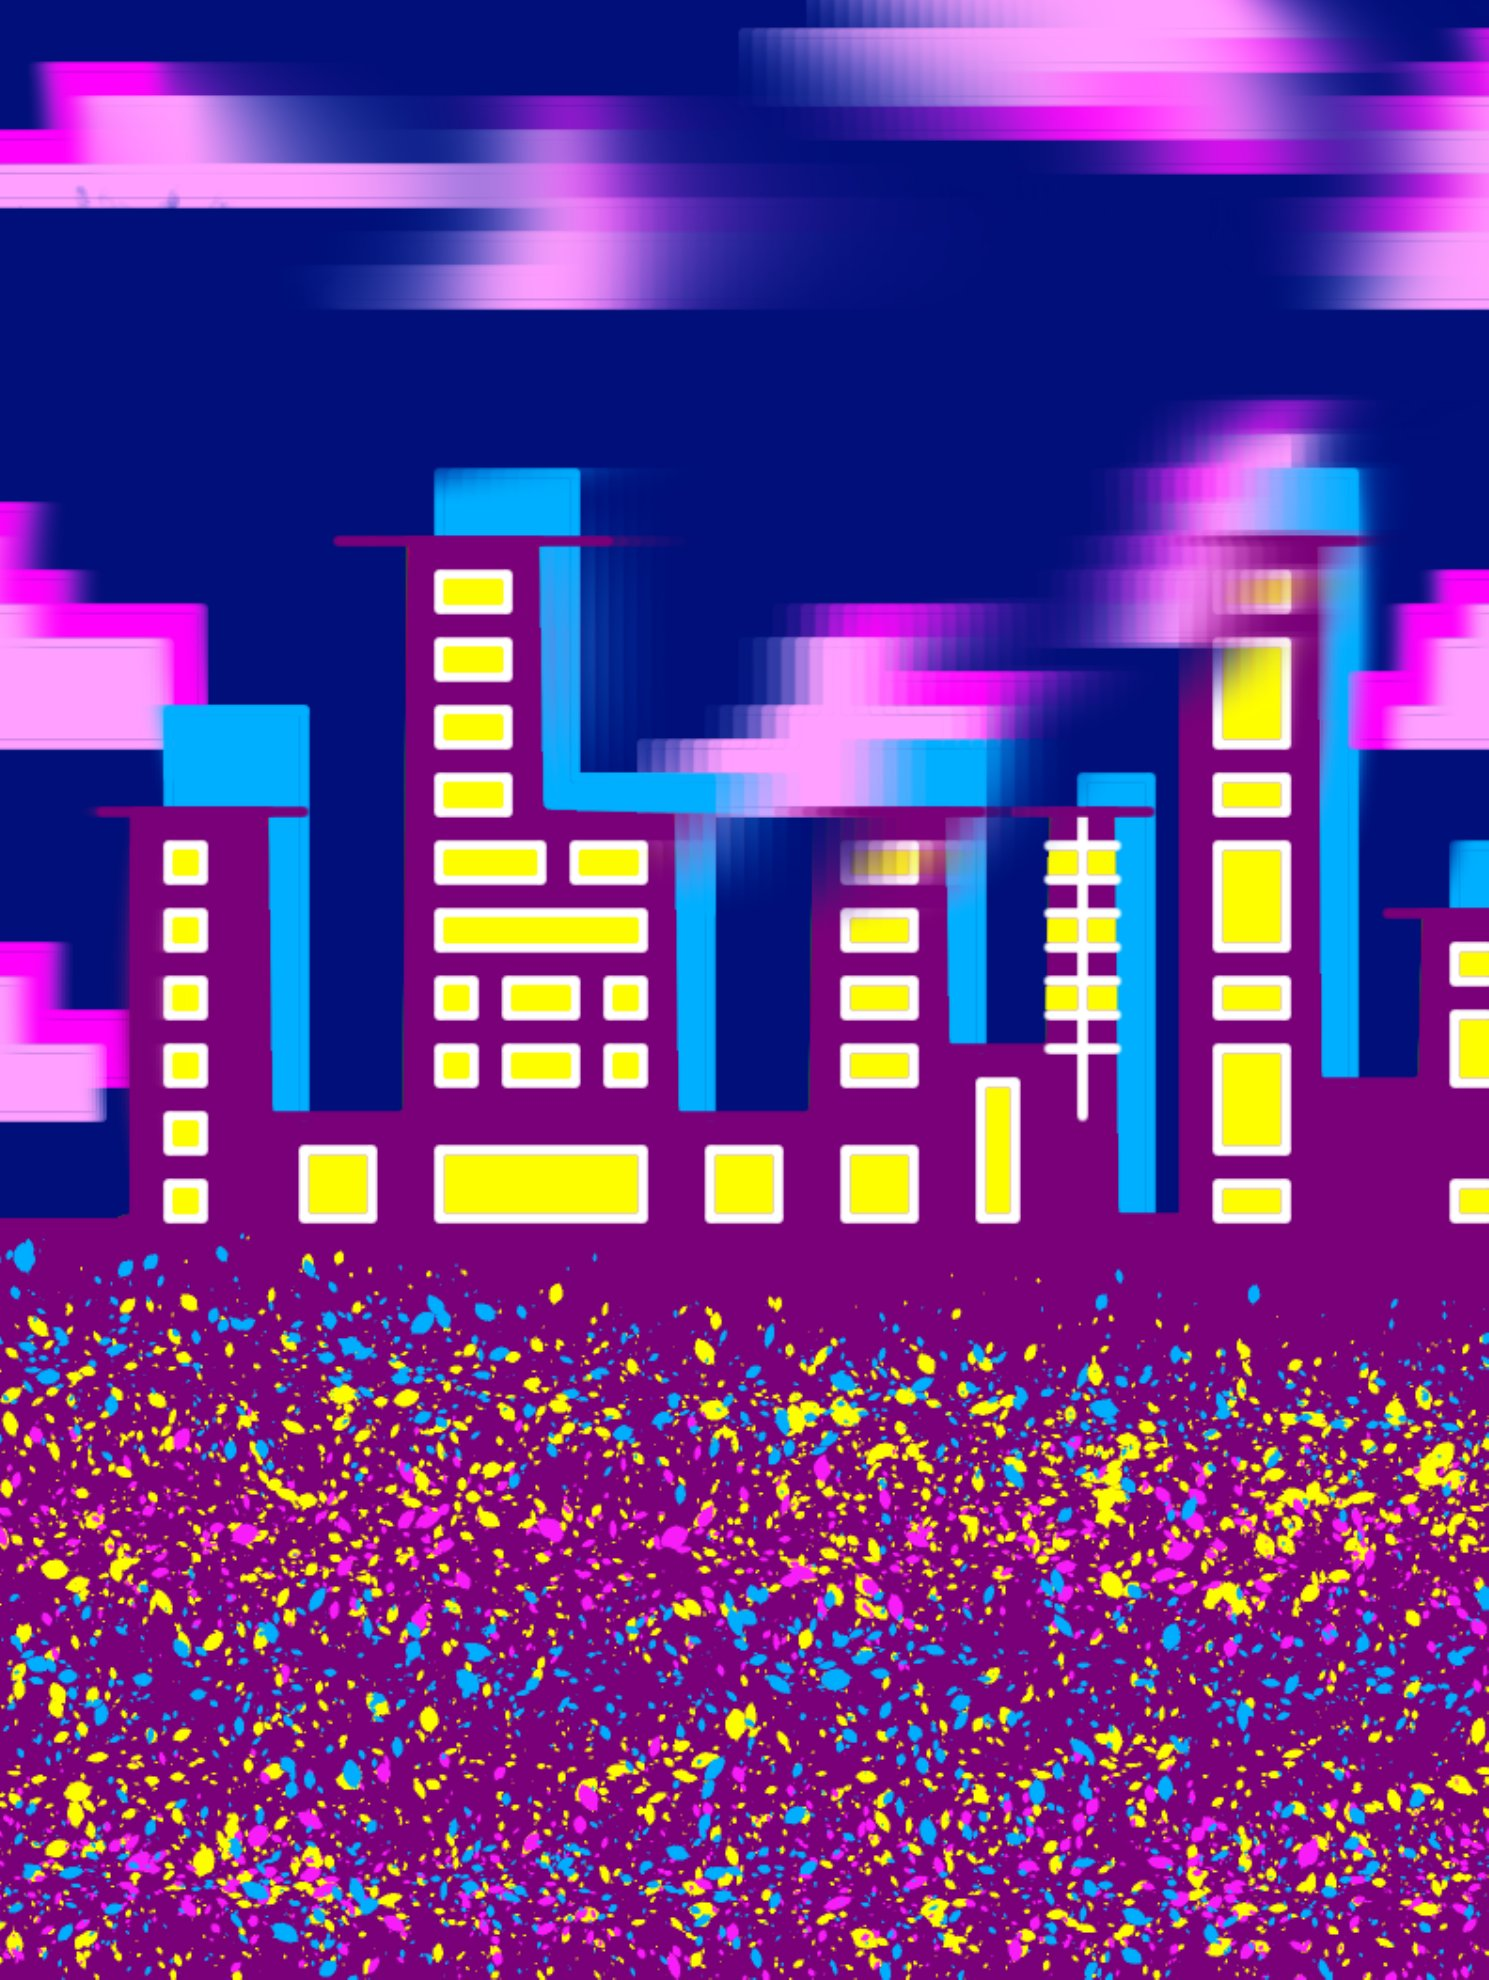
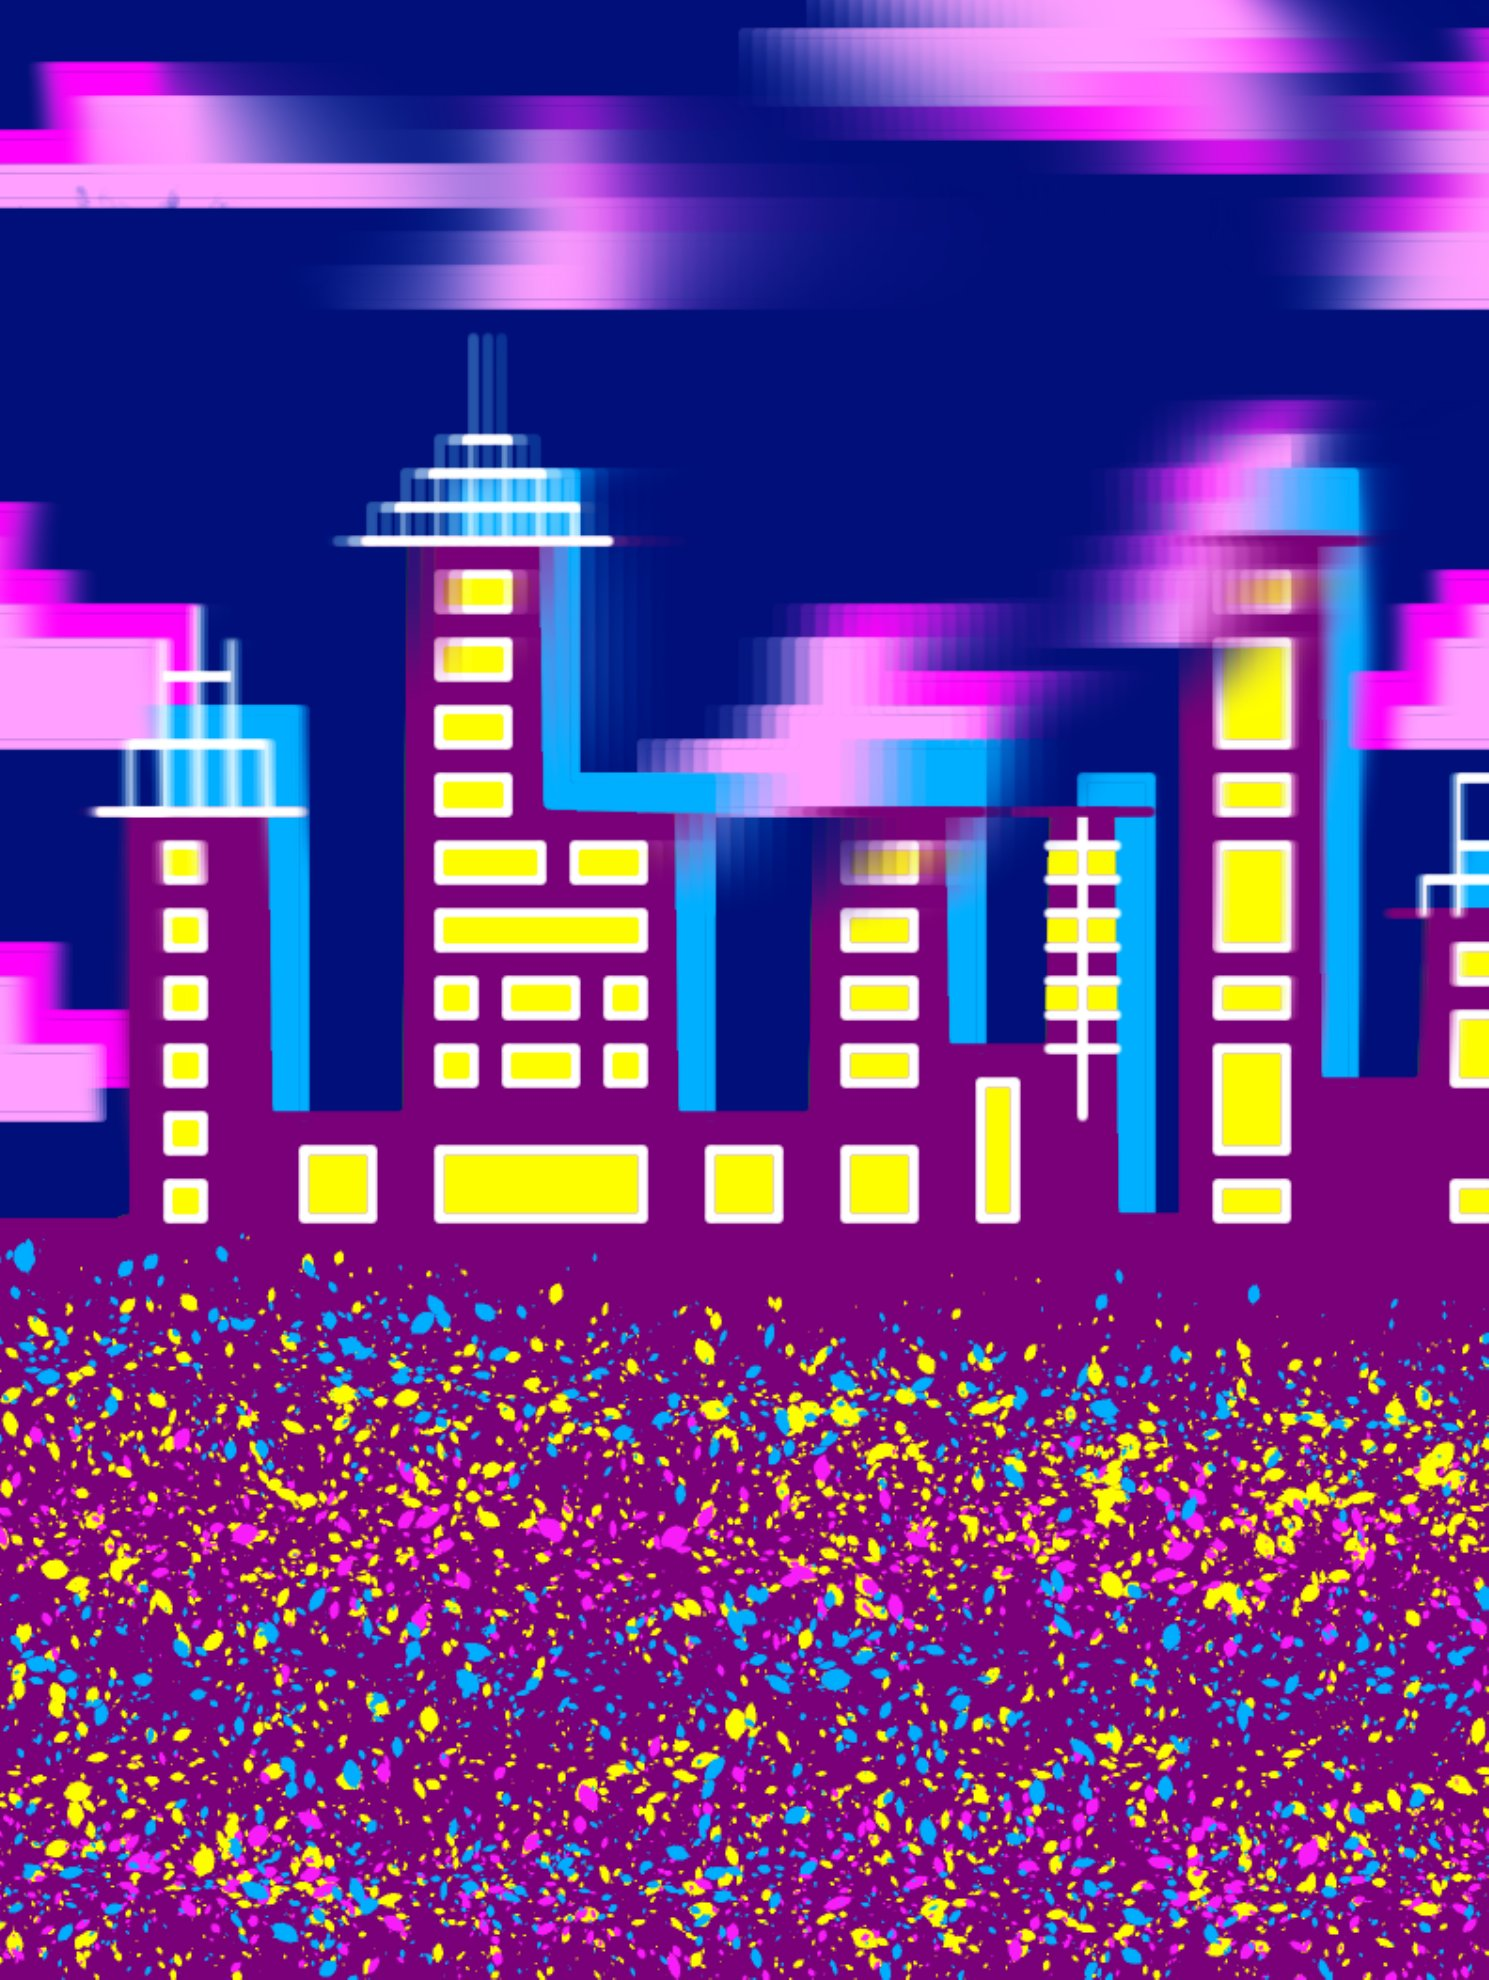
Jules: new art and background, new bio, green University sticker
Claude-Session: https://claude.ai/code/session_014FZdTYMB4Wtja3UGGz7SMd

diff --git a/baltimore-artifact-hunt/src/app/data/game-data.ts b/baltimore-artifact-hunt/src/app/data/game-data.ts
@@ -374,19 +374,34 @@ export const HOTSPOTS: Hotspot[] = [
         name: 'Jules Redrun',
         story: 'Everywhere and not',
         // 11/19: Jules's full story (blank lines = new paragraphs)
+        // 11/19 new bio; the previous one is kept in the comment below
         fullStory: `Everything may seem normal.
 
 You go about your day, foot by foot like everyone else.
 
 You get your cookout trays and Chex and wings, but damnit…something doesn't feel right.
 
-No sauces in the bags. (Well, that's actually pretty normal.) Jamming your foot into something you tried to avoid, losing the keys to your car when you're already late.
+No sauces in the bags. (Well, that's actually pretty normal.) Jamming your foot into something you tried to avoid, losing your keys to the car when you're already late.
 
-Then it hits you, all the little inconveniences throughout the day only hit you. All the signs that he's around.
+Inconvenience after inconvenience, happening to you, happening to others…
+All the signs that he's around.
 
-Jules Redrun. You've probably seen him, maybe talked to him without knowing so, or thought you've heard him speak, because he's everywhere…and not. Your barber, your bartender, your socks, your missing nail. Hell, he's probably your Honda Civic outside right now, but he's out there somewhere, blending into your world right before your eyes.
+Jules Redrun. You've probably seen him, maybe talked to him without knowing so, or thought you heard him speak - from here, there, everywhere… and not. Your barber, your bartender, your socks, your missing nail. Hell, he's probably your Honda Civic outside right now, but he's out there somewhere, blending into your world right before your eyes.
 
-Oh, and he's always dressed for the occasion. He wears that tie like it gives him powers or something.`,
+Oh, and he's always dressed for the occasion. Though, he could stand to switch up that tie every now and then.`,
+        // was:         fullStory: `Everything may seem normal.
+        //
+        // was: You go about your day, foot by foot like everyone else.
+        //
+        // was: You get your cookout trays and Chex and wings, but damnit…something doesn't feel right.
+        //
+        // was: No sauces in the bags. (Well, that's actually pretty normal.) Jamming your foot into something you tried to avoid, losing the keys to your car when you're already late.
+        //
+        // was: Then it hits you, all the little inconveniences throughout the day only hit you. All the signs that he's around.
+        //
+        // was: Jules Redrun. You've probably seen him, maybe talked to him without knowing so, or thought you've heard him speak, because he's everywhere…and not. Your barber, your bartender, your socks, your missing nail. Hell, he's probably your Honda Civic outside right now, but he's out there somewhere, blending into your world right before your eyes.
+        //
+        // was: Oh, and he's always dressed for the occasion. He wears that tie like it gives him powers or something.`,
         // Cover layers (11/18). Same file names = just drop the full-size versions in public/images/characters/.
         coverBackground: 'images/characters/jules-redrun-bg.jpg',
         coverFlag: 'images/characters/jules-redrun-flag.png',

diff --git a/baltimore-artifact-hunt/src/app/components/character-cover/character-cover.component.html b/baltimore-artifact-hunt/src/app/components/character-cover/character-cover.component.html
@@ -33,7 +33,7 @@
       <!-- 11/18: name taken off the top of the cover (it's still in the story beside it). To bring it back, uncomment:
       <h2 class="cc-title">{{ character.name }}</h2>
       -->
-      <span class="cc-sticker">{{ locationName }}</span>
+      <span class="cc-sticker" [attr.data-location]="locationName">{{ locationName }}</span>
       <div class="cc-shine"></div>
     </div>
 

diff --git a/baltimore-artifact-hunt/src/app/components/character-cover/character-cover.component.css b/baltimore-artifact-hunt/src/app/components/character-cover/character-cover.component.css
@@ -384,3 +384,13 @@
   font-weight: bold;
   font-size: 1.15em;
 }
+
+/* 11/19: University's sticker is green (the rest stay red). Add a line like this for any other location. */
+.cc-sticker[data-location="University"] {
+  background: #00a84f;
+}
+
+/* 11/19: a single line break inside a paragraph shows as a new line (blank line = new paragraph) */
+.cc-story p {
+  white-space: pre-line;
+}
